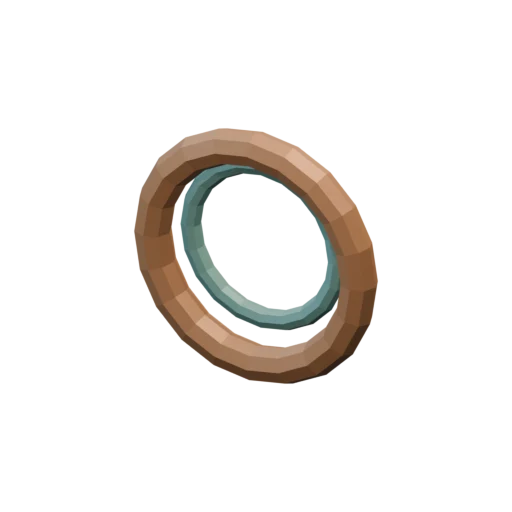
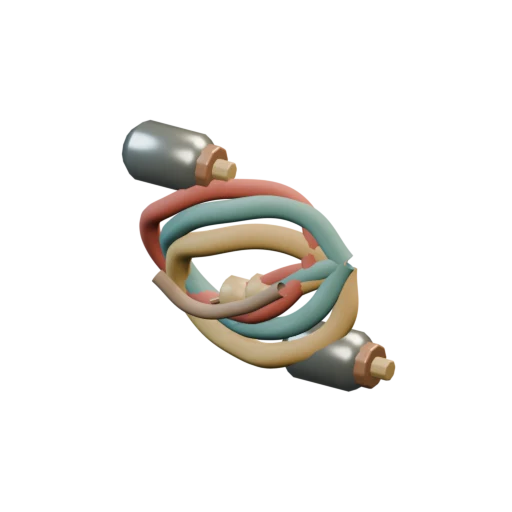
Model a salvaged insulated wiring bundle

Changed region(s): [[0.2188, 0.2188, 0.7812, 0.7812]]

diff --git a/tools/icon-render/render_icons.py b/tools/icon-render/render_icons.py
@@ -722,7 +722,23 @@ def build(item):
                 toothed_gear("salvaged profile gear",pos,r,.09,teeth,steel if index==0 else copper)
                 torus("worn gear hub ring",(pos[0],-.053,pos[2]),r*.31,.014,iron,(math.pi/2,0,0))
         elif item=="wiring":
-            torus("coiled cable",(0,0,0),.28,.045,copper,(math.pi/2,0,0));torus("coiled cable",(0,.04,.02),.2,.025,sea,(math.pi/2,0,0))
+            insulation=[material("faded signal red insulation",(.48,.105,.075,1),0,.8),material("salted teal cable insulation",(.12,.34,.32,1),0,.78),material("aged yellow cable insulation",(.63,.43,.13,1),0,.82)]
+            for strand,(cx,cz,phase) in enumerate(((-.035,.035,0),(.025,.01,.28),(.04,-.055,.56))):
+                path=[]
+                for step in range(9):
+                    angle=step*math.tau/8+phase;radius=.22+math.sin(angle*2+phase)*.025
+                    path.append((cx+math.cos(angle)*radius,-.07+math.sin(angle*2+phase)*.045,cz+math.sin(angle)*radius*.72))
+                curve_tube("loosely coiled insulated wire",path,.024+strand*.003,insulation[strand])
+                end=path[0];tail=(end[0]-.20,-.08,end[2]-.11)
+                curve_tube("cut cable tail",[end,(end[0]-.06,-.075,end[2]-.025),(tail[0]+.06,-.08,tail[2]+.035),tail],.022+strand*.002,insulation[strand])
+                stripped=(tail[0]-.065,tail[1],tail[2]-.035)
+                rod("exposed copper wire core",tail,stripped,.009,copper,7)
+                profile_mesh("brass cable ferrule",(tail[0]+.015,tail[1],tail[2]),[(-.045,.028),(-.035,.043),(.02,.043),(.034,.026)],gold,"X",10)
+            for x,z in ((-.20,.23),(.23,-.18)):
+                profile_mesh("salvage cable plug housing",(x,-.06,z),[(-.11,.045),(-.08,.072),(.07,.072),(.105,.045)],steel,"X",12)
+                cyl("plug contact collar",(x+.105,-.06,z),.055,.035,copper,10,"X",.006)
+                cyl("plug contact tip",(x+.14,-.06,z),.026,.045,gold,8,"X",.004)
+            curve_tube("cable loom retaining tie",[(-.20,-.13,-.05),(-.10,-.13,-.11),(.02,-.13,-.08),(.14,-.13,.0)],.018,leather)
         elif item in ("pistolAmmo","shotgunShells"):
             for i in range(3):cyl("cartridge",(-.2+i*.2,0,0),.07,.48,gold if item=="pistolAmmo" else copper,12)
             for i in range(3):bpy.data.objects.get("cartridge").rotation_euler[1]=.18
